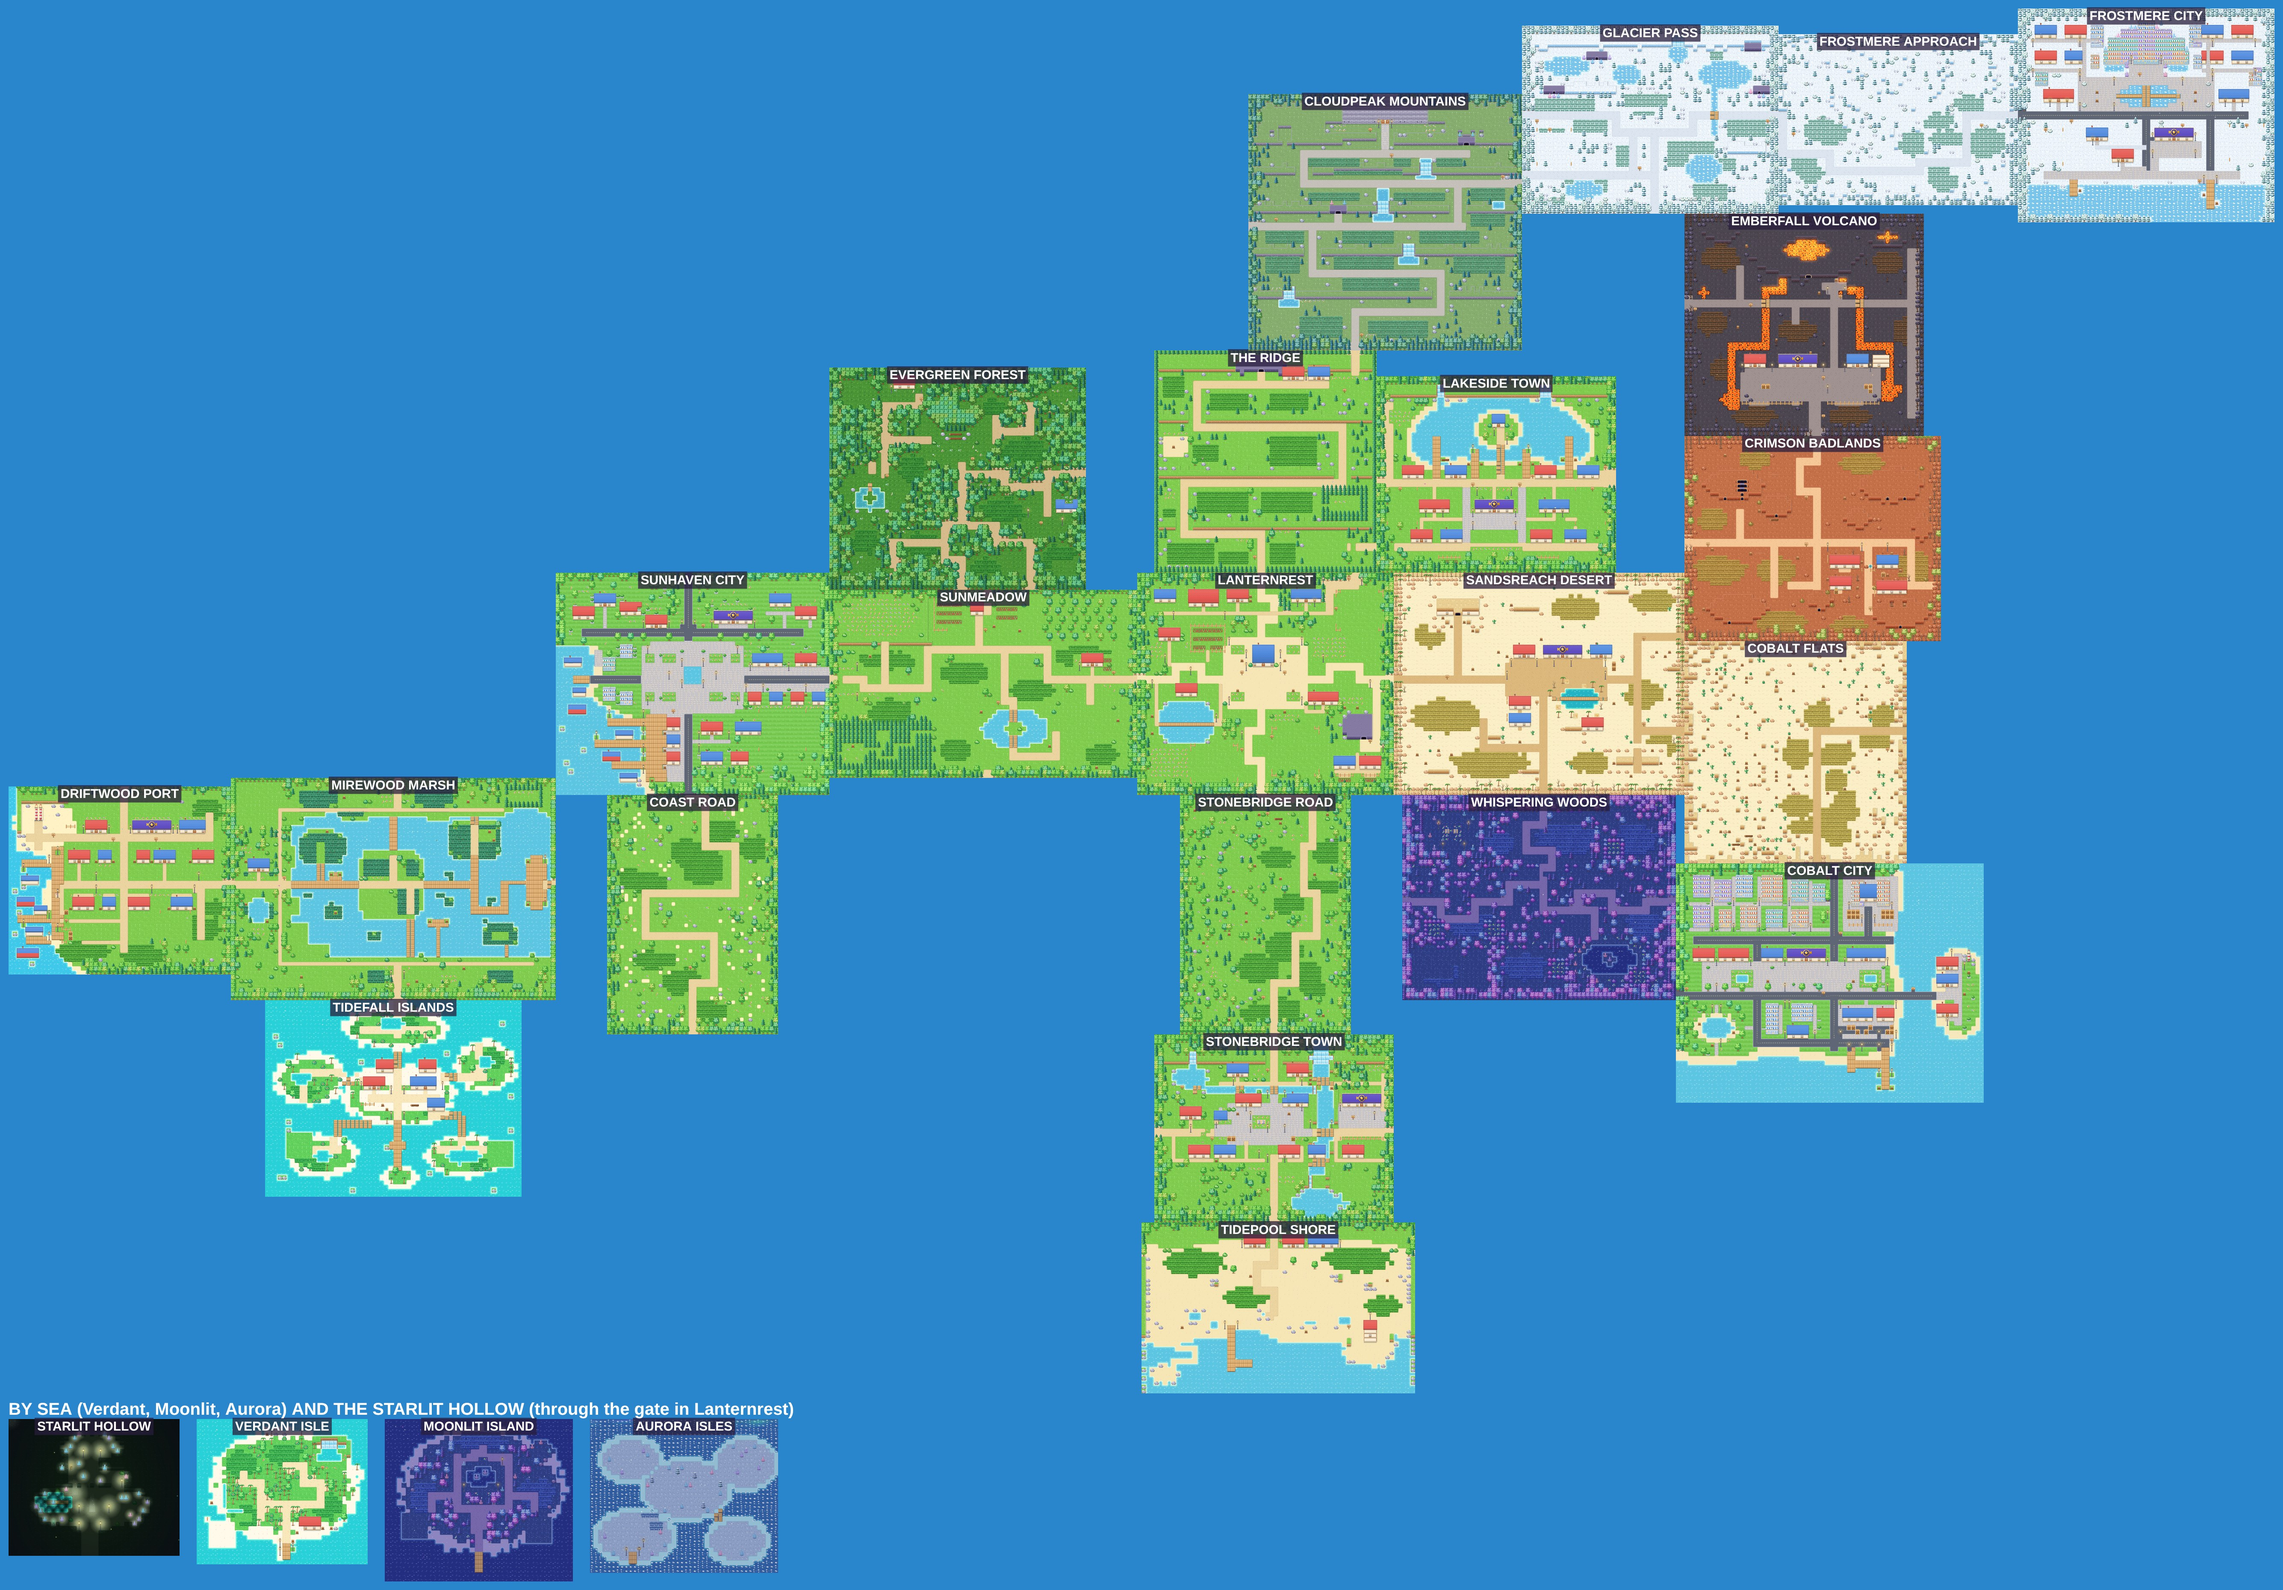
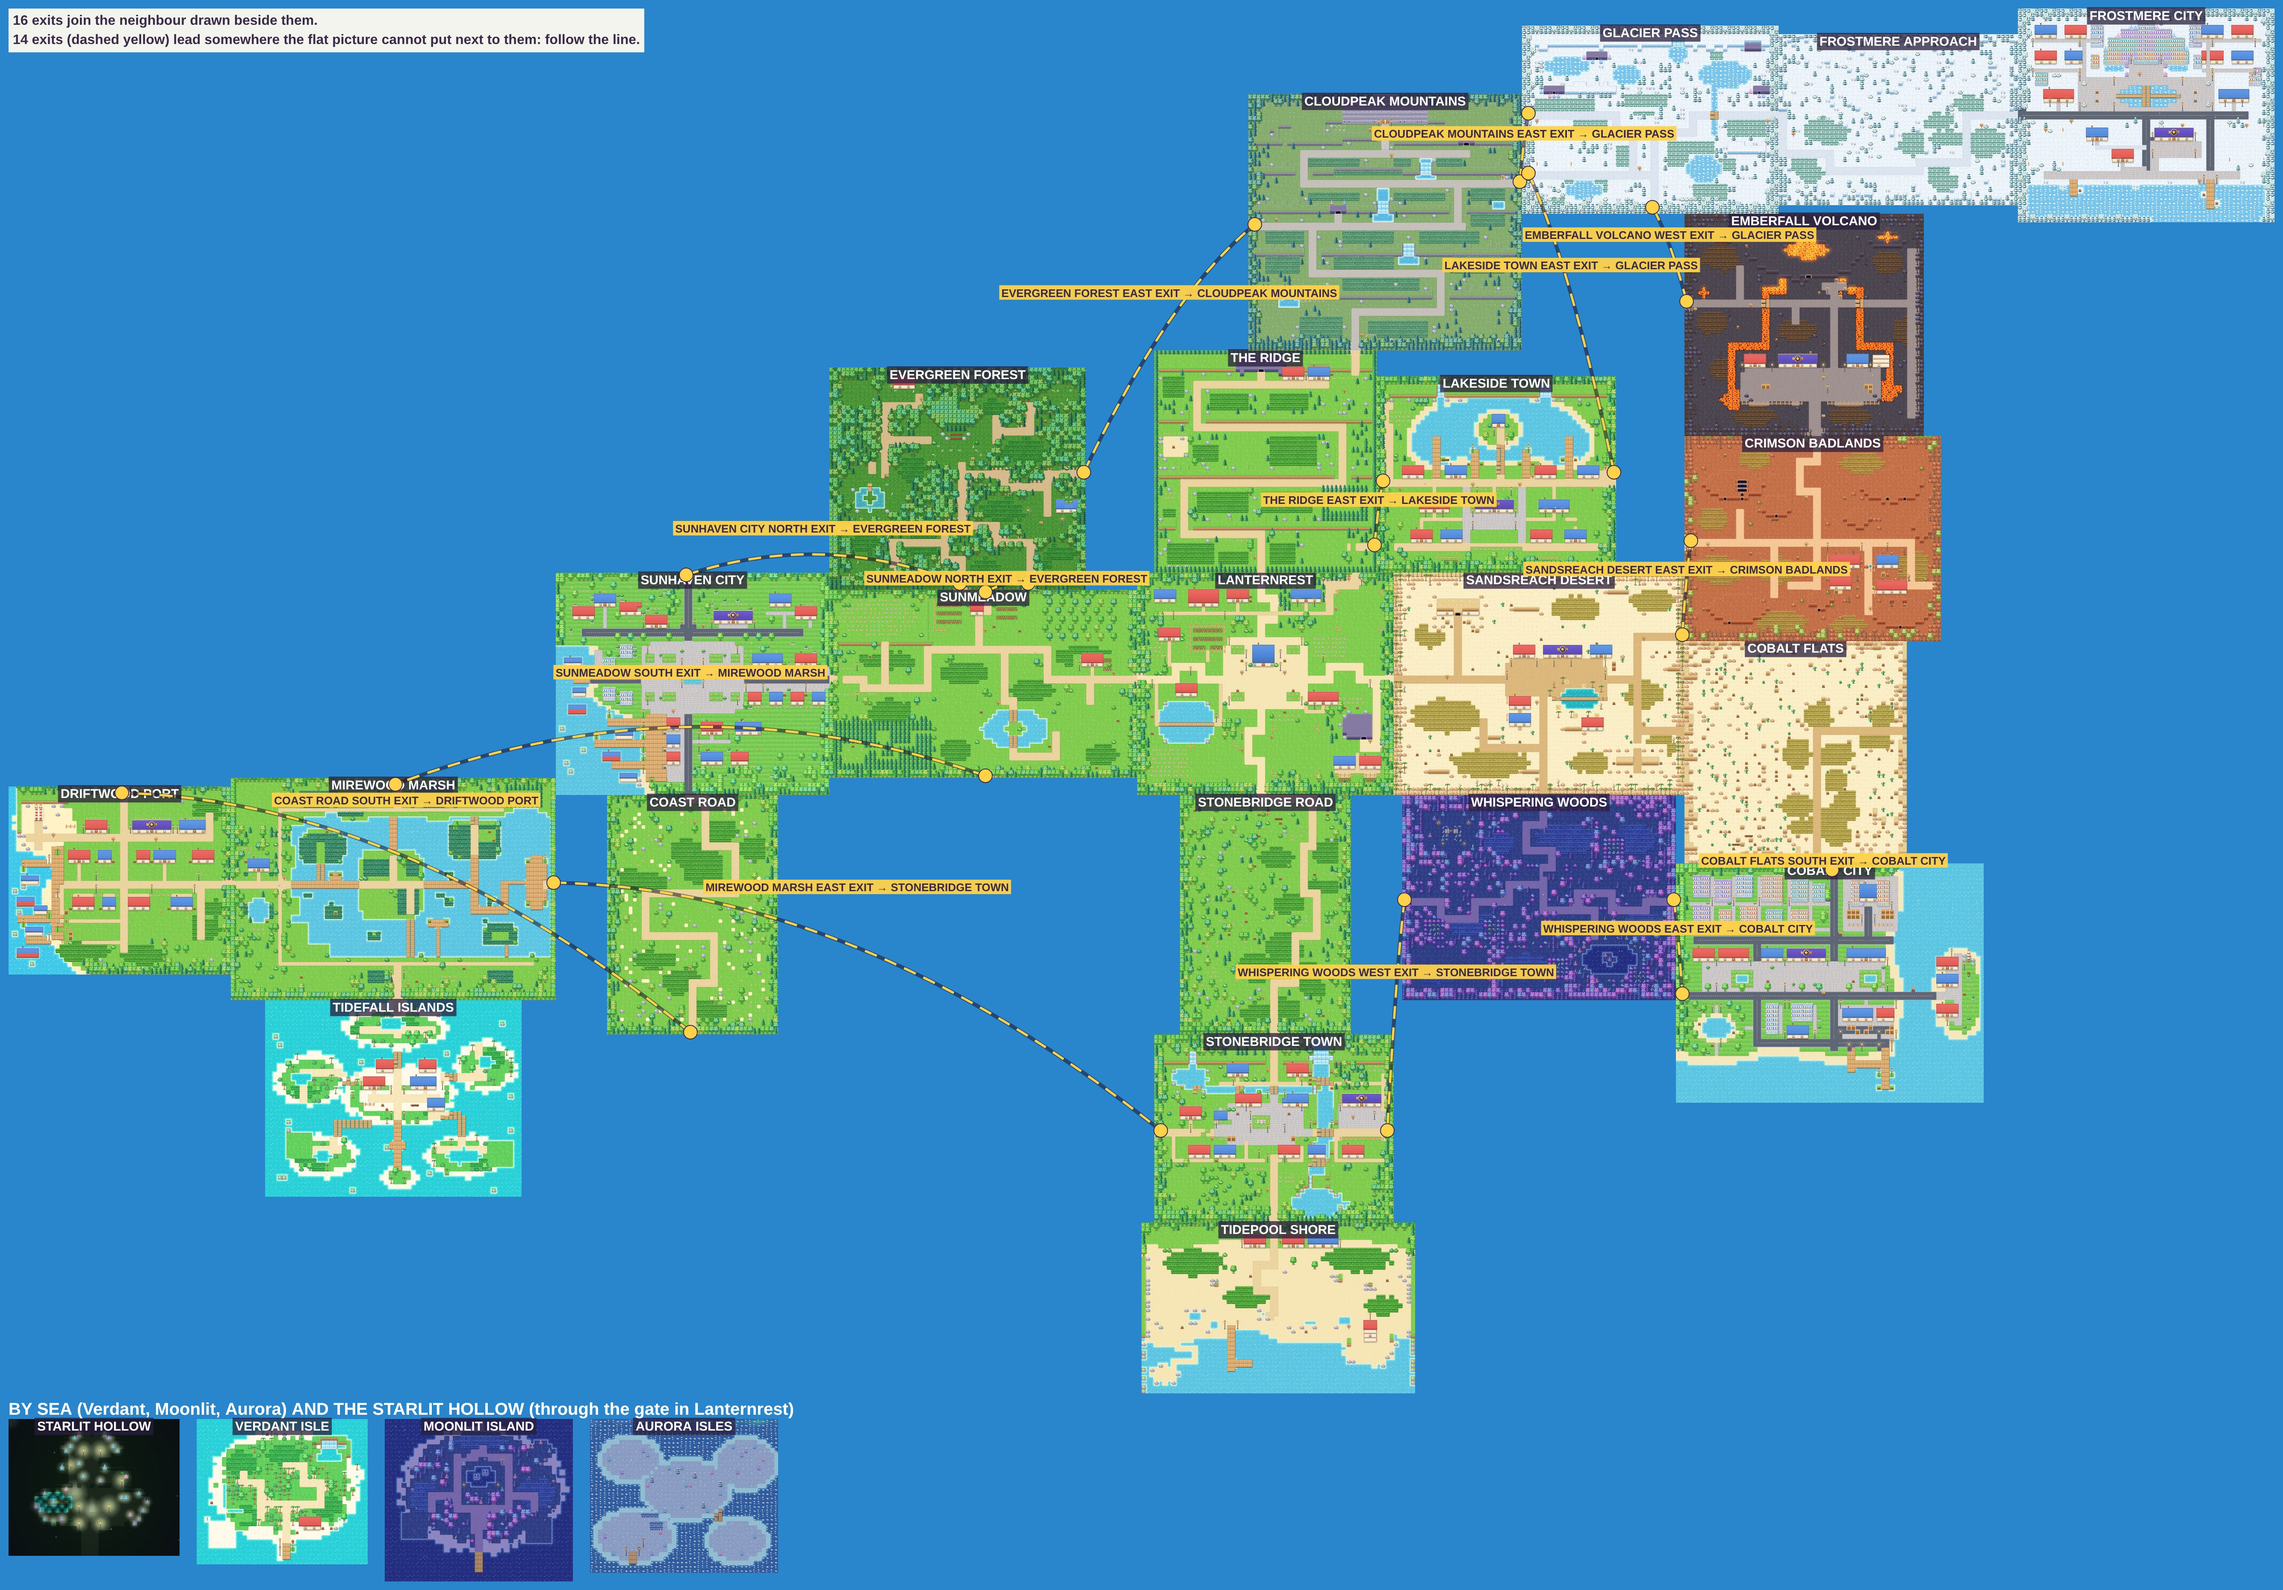
World render shows every true connection (dashed lines where the flat layout cannot place a neighbour)
Claude-Session: https://claude.ai/code/session_016QFoW42RyRroEVoWSSq6Ek

diff --git a/tools/render-world.js b/tools/render-world.js
@@ -1,4 +1,4 @@
-// Renders every outdoor map with the game's own tile art and lays them out by their edge exits: PX=4 node tools/render-world.js (writes /tmp/claude-0/wm/world-PX.jpg)
+// Renders every outdoor map with the game's own tile art, laid out by their edge exits; exits the flat layout cannot place are drawn as dashed lines: PX=4 node tools/render-world.js
 const { chromium } = require('/opt/node-tools/node_modules/playwright');
 const fs = require('fs');
 const PX = +(process.env.PX || 4);
@@ -53,6 +53,22 @@ const PX = +(process.env.PX || 4);
       bx.fillStyle = 'rgba(40,30,60,.75)'; bx.fillRect(cx - tw / 2, cy - fsz, tw, fsz * 1.35); bx.fillStyle = '#fff'; bx.textAlign = 'center'; bx.fillText(nm, cx, cy);
     }
     G.W = fw; G.H = fh;
+    // the true connections: where an exit does not land on the neighbour drawn beside it, a dashed line joins the exit to where it really arrives
+    const want = (A, ax, ay, w, B) => { const s2 = sideOf(A, w); return s2 === 'S' ? [ax + w.x - w.tx, ay + A.h] : s2 === 'N' ? [ax + w.x - w.tx, ay - B.h] : s2 === 'E' ? [ax + A.w, ay + w.y - w.ty] : [ax - B.w, ay + w.y - w.ty]; };
+    const P = (id, x, y) => [(pos[id][0] - minX + 2 + x) * PX, (pos[id][1] - minY + 2 + y) * PX];
+    const seen = new Set(); let nOff = 0, nOk = 0; const labels = [];
+    for (const a of placed) { const A = G.MAPS[a]; for (const w of A.warps) { const bId = w.to; if (!placed.includes(bId) || !sideOf(A, w)) continue; const key = [a, bId].sort().join('|'); if (seen.has(key)) continue; seen.add(key);
+      const [x, y] = want(A, pos[a][0], pos[a][1], w, G.MAPS[bId]); if (x === pos[bId][0] && y === pos[bId][1]) { nOk++; continue; } nOff++;
+      const [x1, y1] = P(a, w.x + .5, w.y + .5), [x2, y2] = P(bId, w.tx + .5, w.ty + .5), mx = (x1 + x2) / 2, my = (y1 + y2) / 2 - Math.hypot(x2 - x1, y2 - y1) * .18;
+      bx.save(); bx.lineWidth = Math.max(3, PX * .9); bx.strokeStyle = 'rgba(30,20,40,.55)'; bx.setLineDash([]); bx.beginPath(); bx.moveTo(x1, y1); bx.quadraticCurveTo(mx, my, x2, y2); bx.stroke();
+      bx.lineWidth = Math.max(2, PX * .55); bx.strokeStyle = '#ffd24a'; bx.setLineDash([PX * 3, PX * 2]); bx.beginPath(); bx.moveTo(x1, y1); bx.quadraticCurveTo(mx, my, x2, y2); bx.stroke(); bx.restore();
+      for (const [cx, cy] of [[x1, y1], [x2, y2]]) { bx.fillStyle = '#ffd24a'; bx.strokeStyle = '#3a2a48'; bx.lineWidth = 2; bx.beginPath(); bx.arc(cx, cy, Math.max(5, PX * 1.6), 0, 7); bx.fill(); bx.stroke(); }
+      const nm = id => (G.WORLD.byId[id] ? G.WORLD.byId[id].name : G.MAPS[id].name).toUpperCase(), word = { N: 'NORTH', S: 'SOUTH', E: 'EAST', W: 'WEST' }[sideOf(A, w)];
+      labels.push([mx, my, `${nm(a)} ${word} EXIT → ${nm(bId)}`]);
+    } }
+    for (const [lx, ly, t] of labels) { const fz = Math.max(10, PX * 2.6); bx.font = `900 ${fz}px sans-serif`; const tw = bx.measureText(t).width + 10; bx.fillStyle = 'rgba(255,210,74,.95)'; bx.fillRect(lx - tw / 2, ly - fz * .8, tw, fz * 1.3); bx.fillStyle = '#3a2a48'; bx.textAlign = 'center'; bx.fillText(t, lx, ly + fz * .25); }
+    // key
+    { const fz = Math.max(12, PX * 3.2); bx.font = `900 ${fz}px sans-serif`; bx.textAlign = 'left'; const lines = [`${nOk} exits join the neighbour drawn beside them.`, `${nOff} exits (dashed yellow) lead somewhere the flat picture cannot put next to them: follow the line.`]; const tw = Math.max(...lines.map(l => bx.measureText(l).width)) + 20; bx.fillStyle = 'rgba(255,250,240,.95)'; bx.fillRect(PX * 2, PX * 2, tw, fz * 3.2); bx.fillStyle = '#3a2a48'; lines.forEach((l, i) => bx.fillText(l, PX * 2 + 10, PX * 2 + fz * 1.2 + i * fz * 1.4)); }
     bx.font = `900 ${PX * 4}px sans-serif`; bx.fillStyle = '#fff'; bx.textAlign = 'left'; bx.fillText('BY SEA (Verdant, Moonlit, Aurora) AND THE STARLIT HOLLOW (through the gate in Lanternrest)', (minX - minX + 2) * PX, (ey - minY + 1) * PX);
     return { url: big.toDataURL('image/jpeg', .88), W, H, placed: placed.length, extra };
   }, PX);
